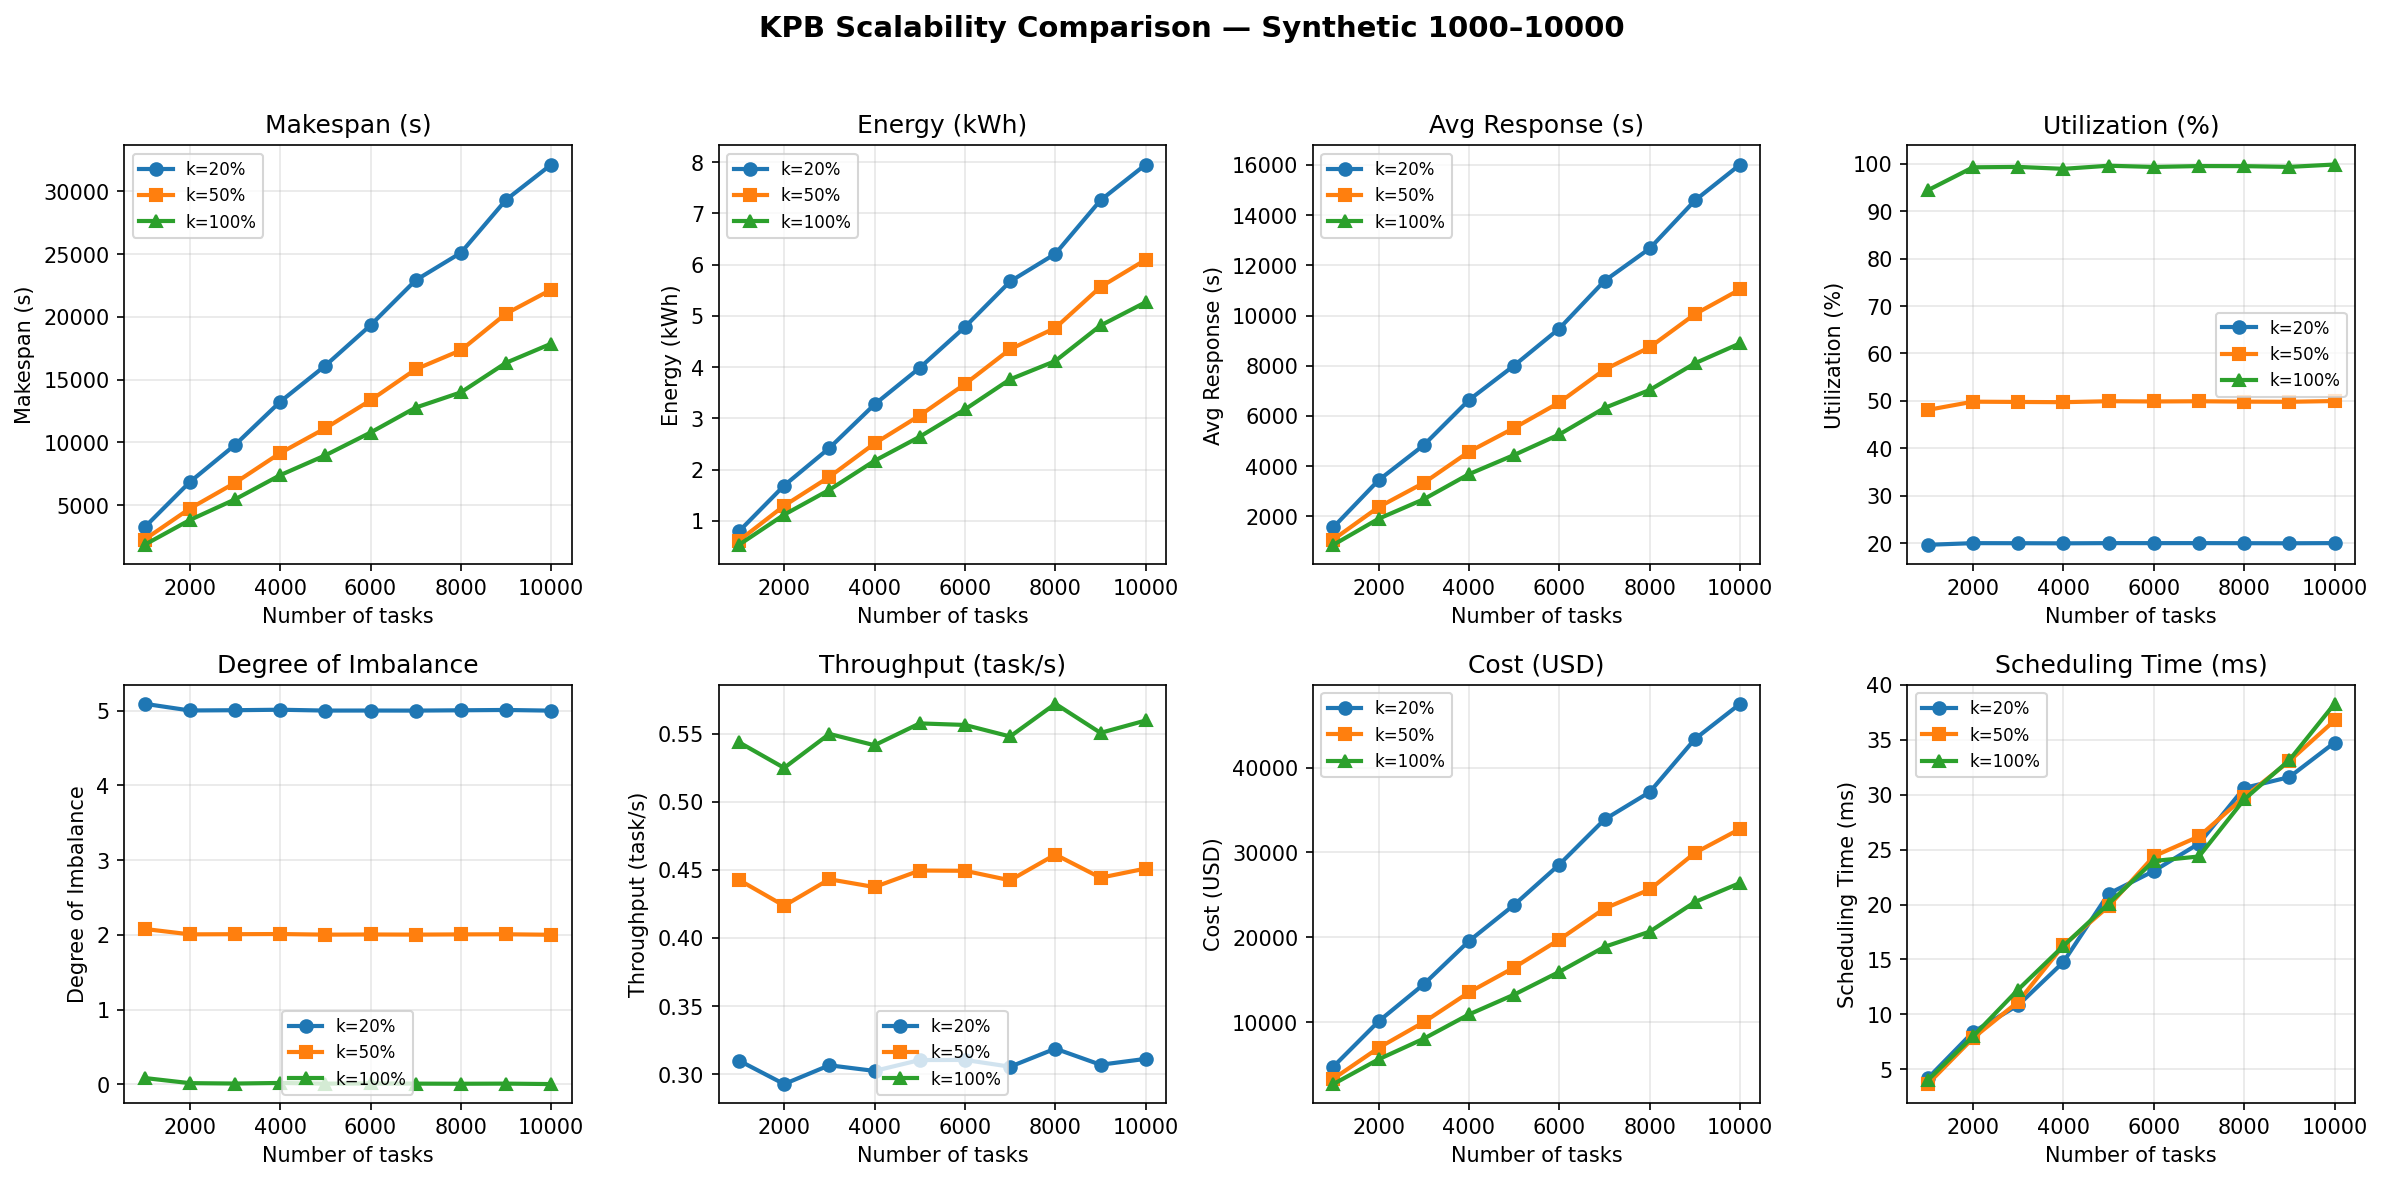
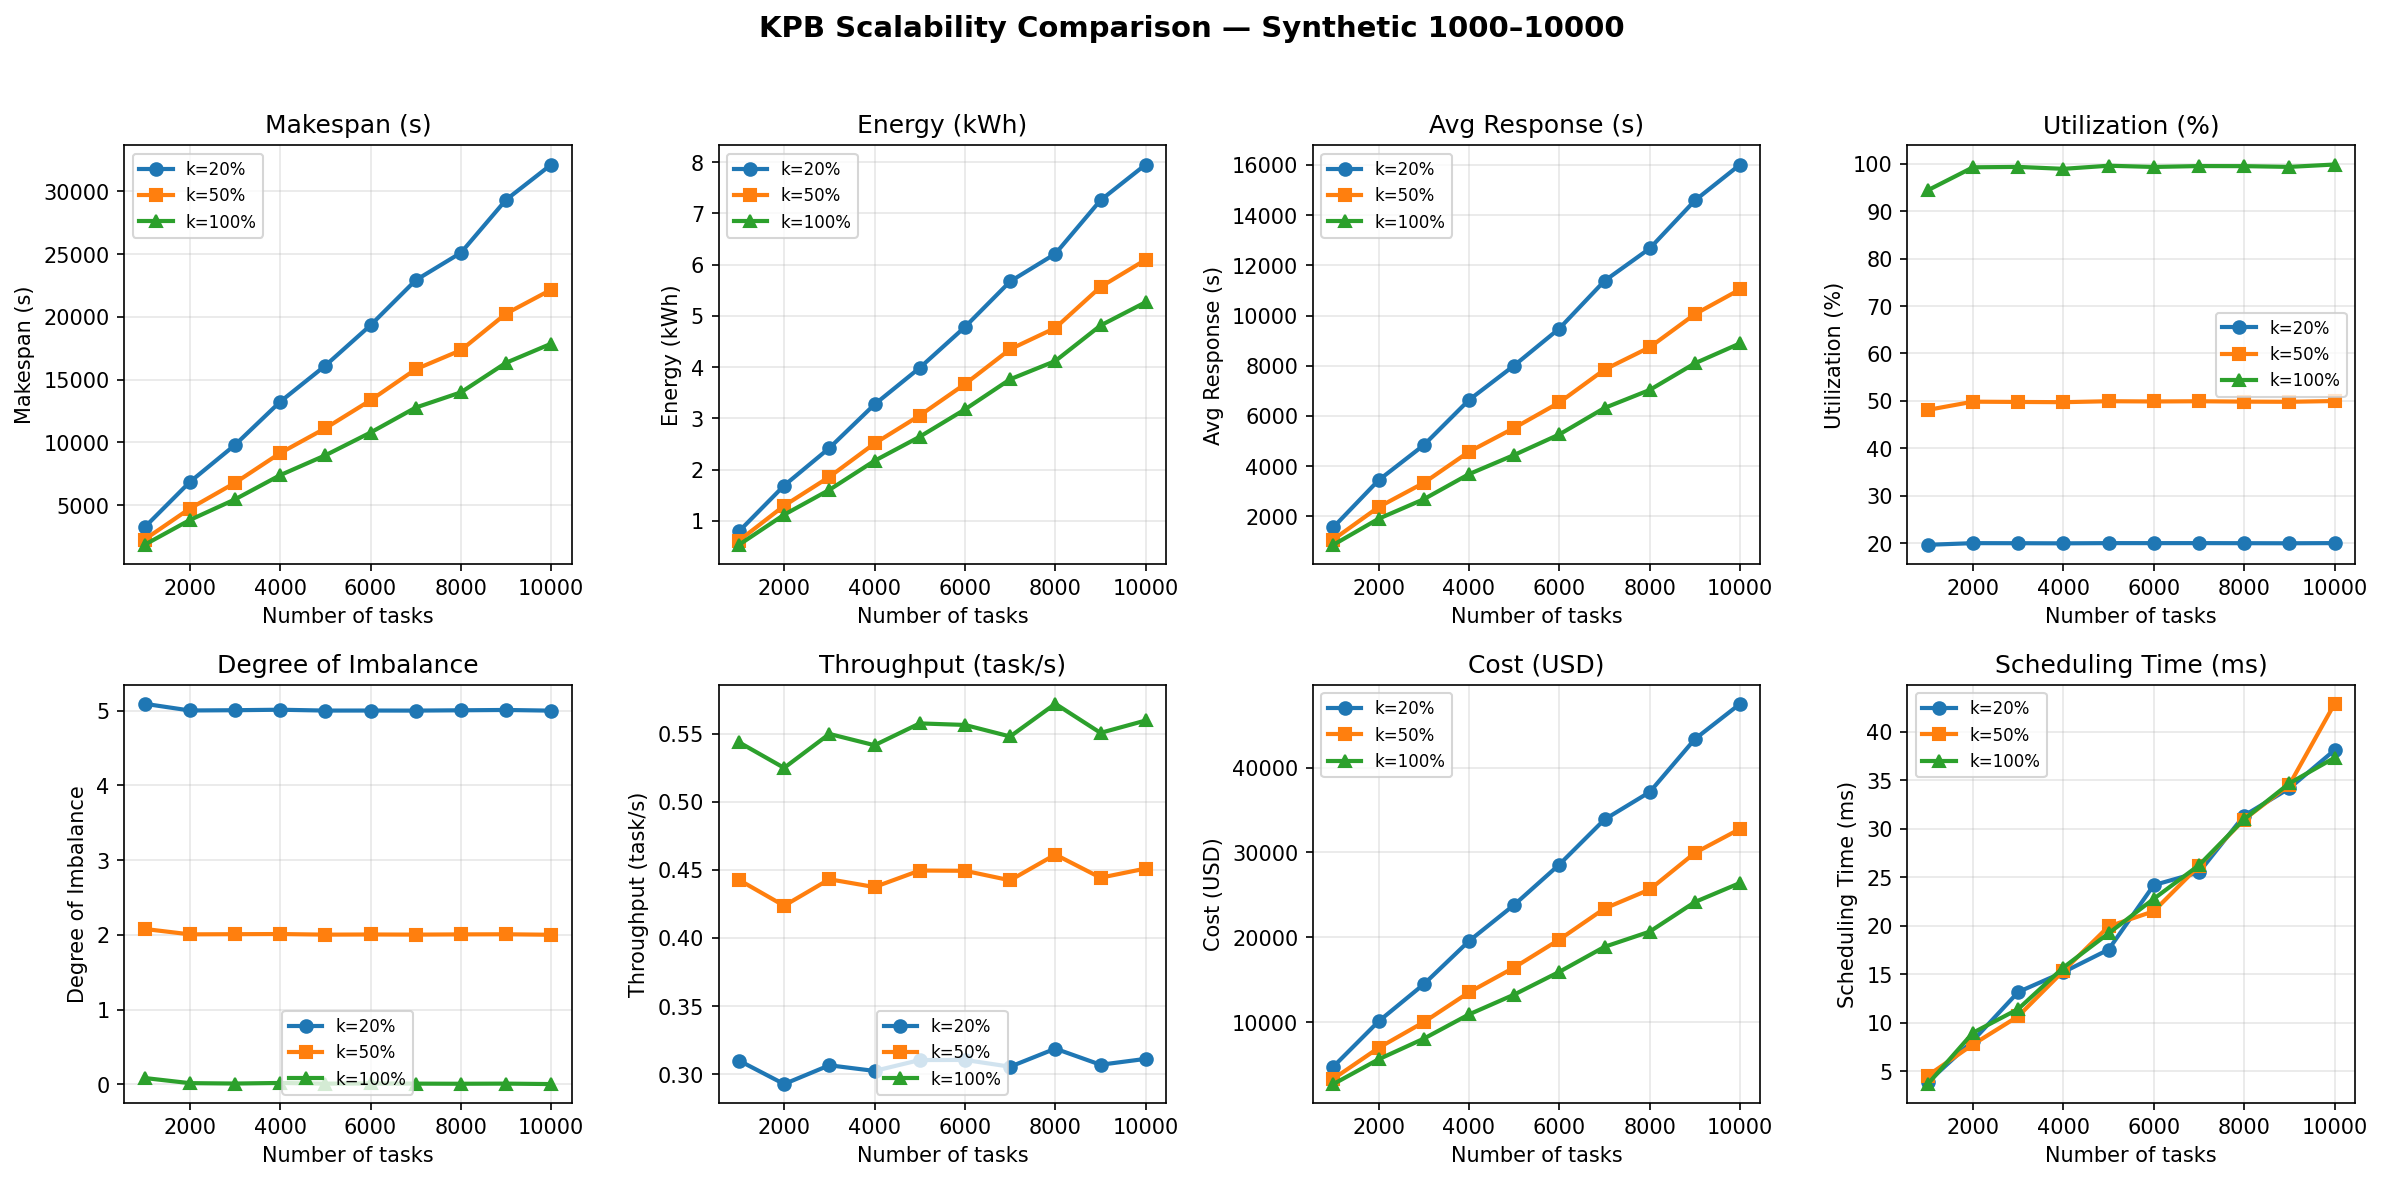
revision

diff --git a/README.md b/README.md
@@ -292,13 +292,33 @@ Setiap run memvalidasi: 20/20 VM dibuat, setiap cloudlet berjalan di VM hasil KP
 | Sumber | Mendeley Data, diturunkan dari jejak beban kerja Google cluster |
 | Format | Teks, satu panjang task (MI) per baris |
 | Rentang | 15.000 – 900.000 MI |
-| File | `GoCJ_Dataset_100.txt`, `GoCJ_Dataset_500.txt`, `GoCJ_Dataset_1000.txt` |
+
+### 5.1 Suite A — GoCJ resmi (100 … 1.000, kelipatan 100)
+
+| File | Jumlah task | Keterangan |
+|:---|:---:|:---|
+| `GoCJ_Dataset_100.txt` | 100 | Resmi Mendeley |
+| `GoCJ_Dataset_200.txt` … `GoCJ_Dataset_900.txt` | 200–900 | Official-method (Monte Carlo + seed paper) |
+| `GoCJ_Dataset_500.txt` | 500 | Resmi Mendeley |
+| `GoCJ_Dataset_1000.txt` | 1.000 | Resmi Mendeley |
 
 | Skenario | Jumlah task | Tujuan |
 |:---:|:---:|:---|
 | S1 | 100 | Verifikasi kebenaran implementasi |
 | S2 | 500 | Beban normal (skenario acuan utama) |
 | S3 | 1.000 | Uji skalabilitas |
+| S4–S10 | 200, 300, 400, 600, 700, 800, 900 | Kelengkapan uji kelipatan 100 |
+
+### 5.2 Suite B — Synthetic (1.000 … 10.000, kelipatan 1.000)
+
+Sesuai masukan dosen: dataset synthetic mulai **1.000** hingga **10.000**.
+
+| File | Jumlah task |
+|:---|:---:|
+| `synthetic/Synthetic_GoCJ_1000.txt` | 1.000 |
+| `synthetic/Synthetic_GoCJ_2000.txt` … `Synthetic_GoCJ_10000.txt` | 2.000 … 10.000 |
+
+Generated dengan resampling distribusi empiris `GoCJ_Dataset_1000` (seed deterministik).
 
 Pemetaan ke cloudlet (Desain bagian 1.3):
 
@@ -370,6 +390,47 @@ Log semua run ada di `results/simulation/log_<dataset>_k<K>.txt`.
 2. **Energi dan biaya juga terendah pada k = 100% di matriks ini.** Keenam host tetap dimodelkan aktif, sehingga penurunan makespan mengurangi energi idle dan biaya yang bergantung pada durasi.
 3. **Anomali satu-PE pada V3 sudah teratasi di CloudSim.** Cloudlet memakai semua PE VM tujuan; V3 menjalankan satu Cloudlet pada 4 PE dengan scheduler `SpaceShared`. Makespan seluruh 9 konfigurasi hanya 0,74–1,62% di atas f1, bukan beberapa kali lipat.
 4. **Waktu penjadwalan tetap kecil.** KPB menjadwalkan hingga 1.000 task dalam kurang dari 4 ms pada pengujian ini.
+
+---
+
+## 6.5. Eksperimen Skalabilitas
+
+Eksperimen tambahan mengikuti masukan dosen: uji ukuran 100…1.000 (kelipatan 100) dan synthetic 1.000…10.000 (kelipatan 1.000), plus diagram perbandingan.
+
+### Runner dan artefak
+
+| Runner | Cakupan | Output utama |
+|:---|:---|:---|
+| **Analitik KPB** (`scripts/run_scalability_experiment.py`) | Semua size × k ∈ {20, 50, 100}% | [`summary_scalability.csv`](results/simulation/summary_scalability.csv) + diagram di [`results/figures/`](results/figures/) |
+| **CloudSim Plus** (`scripts/run_cloudsim_batch.ps1`) | Official 100–1.000 + Synthetic (batch) | `cloudlets_*.csv`, `log_*.txt`, [`summary.csv`](results/simulation/summary.csv) |
+| **Real-world Docker** (`scripts/run_realworld_batch.ps1`) | Official 100–1.000 + Synthetic_1000 | `realworld/results/` |
+
+> **Catatan file hasil:**  
+> - `summary_scalability.csv` = metrik **analitik** (identik `KpbScheduler` + model energi desain) → dipakai untuk **diagram skalabilitas**.  
+> - `summary.csv` = metrik **CloudSim Plus penuh** (bisa berisi run historis model lama di bagian atas; baris terbaru adalah model setelah perbaikan PE).  
+> Selisih CloudSim vs analitik pada konfigurasi yang divalidasi tetap **&lt; 2%** (lihat §6.2).
+
+### Ringkasan tren (analitik)
+
+1. Makespan dan energi **linear** terhadap jumlah task (terlihat pada plot log-log).
+2. **k = 100%** konsisten terbaik untuk makespan, energi, utilisasi, dan biaya pada arsitektur ini.
+3. k = 20% → utilisasi ≈ 20%, makespan ≈ 1,8× lebih tinggi vs k = 100%.
+4. Waktu penjadwalan tetap ringan (puluhan ms untuk 10.000 task).
+
+Diagram:
+
+| File | Isi |
+|:---|:---|
+| `results/figures/compare_100_1000.png` | Official GoCJ 100–1.000 (8 metrik) |
+| `results/figures/compare_1000_10000.png` | Synthetic 1.000–10.000 |
+| `results/figures/bars_*.png` | Bar chart |
+| `results/figures/compare_loglog_all.png` | Makespan & energi log-log |
+
+Analisis lengkap: [`docs/scalability-analysis.md`](docs/scalability-analysis.md).
+
+```powershell
+python scripts/run_scalability_experiment.py
+```
 
 ---
 
@@ -890,19 +951,27 @@ soka-a-5/
 │   │       ├── SimulationSetup.java       ← Broker, cloudlet, binding, validasi
 │   │       └── CloudSimAdapter.java
 │   └── resources/dataset/
-│       ├── GoCJ_Dataset_100.txt
-│       ├── GoCJ_Dataset_500.txt
-│       ├── GoCJ_Dataset_1000.txt
+│       ├── GoCJ_Dataset_100.txt … 1000.txt ← Suite resmi (kelipatan 100)
+│       ├── Original_DataSet.txt           ← Seed Monte Carlo paper GoCJ
+│       ├── synthetic/                     ← Synthetic_GoCJ_1000 … 10000
 │       └── dataset.txt                    ← 5 task contoh
 │
+├── scripts/
+│   ├── run_scalability_experiment.py      ← Analitik + diagram skalabilitas
+│   ├── run_cloudsim_batch.ps1 / .sh       ← Batch CloudSim semua size
+│   └── run_realworld_batch.ps1            ← Batch Docker real-world
+│
 ├── docs/
-│   └── gap-analysis.md                    ← Draft desain vs implementasi
+│   ├── gap-analysis.md                    ← Draft desain vs implementasi
+│   └── scalability-analysis.md            ← Analisis skalabilitas
 │
 ├── results/simulation/
-│   ├── summary.csv                        ← 8 metrik per run
+│   ├── summary_scalability.csv            ← Metrik analitik (untuk diagram)
+│   ├── summary.csv                        ← Metrik CloudSim penuh
 │   ├── placement.csv                      ← VM → DC/host
 │   ├── cloudlets_<dataset>_k<K>.csv       ← Detail per cloudlet
 │   └── log_<dataset>_k<K>.txt             ← Output terminal
+├── results/figures/                       ← Diagram perbandingan skalabilitas
 │
 └── realworld/
     ├── docker-compose.yml                 ← 20 container "VM", 2 jaringan DC
@@ -928,6 +997,10 @@ soka-a-5/
 | 4. Ujicoba dataset minggu 3 (S1–S3) | ✅ 9 kombinasi, 8 metrik (bagian 6) |
 | 5. Implementasi KPB di real world | ✅ 20 container mengikuti spesifikasi VM, PE, dan penempatan desain (bagian 7) |
 | 6. Ujicoba real world | ✅ 9 kombinasi × 3 repetisi, mean ± std (bagian 7.4) |
+| 7. Dataset GoCJ 100…1.000 (kelipatan 100) | ✅ Suite resmi / official-method (bagian 5.1) |
+| 8. Dataset synthetic 1.000…10.000 | ✅ Termasuk `Synthetic_GoCJ_1000.txt` (bagian 5.2) |
+| 9. Eksperimen skalabilitas + diagram | ✅ Analitik semua size; CloudSim official 100–1.000 + Synthetic_1000 (bagian 6.5) |
+| 10. Batch CloudSim / real-world size besar | ⚪ Script tersedia (`scripts/run_cloudsim_batch.ps1`, `run_realworld_batch.ps1`); synthetic ≥2.000 opsional (lama) |
 
 Penyimpangan dari Draft Desain dan alasannya (analisis lengkap, termasuk bagian desain yang kurang tepat untuk diterapkan, ada di [`docs/gap-analysis.md`](docs/gap-analysis.md)):
 

diff --git a/docs/scalability-analysis.md b/docs/scalability-analysis.md
@@ -1,74 +1,59 @@
 # Analisis Skalabilitas Algoritma KPB
 
-Sesuai masukan dosen:
-1. Uji coba dataset **100, 200, 300, …, 1000**
-2. Dataset synthetic **1000, 2000, …, 10.000**
-3. Diagram perbandingan makespan, energi, dan metrik lain
+Sesuai masukan dosen + perbaikan dataset:
 
-## Metode
+## 1. Dataset
 
-- **Dataset asli GoCJ**: 100, 500, 1000 (dari `src/main/resources/dataset/`).
-- **Dataset synthetic**: resampling distribusi empiris `GoCJ_Dataset_1000` (seed deterministik) → file di `src/main/resources/dataset/synthetic/`.
-- **Scheduler**: implementasi analitik KPB identik dengan `KpbScheduler.java` (subset k% VM terbaik → min completion time).
-- **Metrik**: makespan, energi (6 host selalu menyala sampai Cmax), avg response, utilisasi, DI, throughput, biaya, waktu penjadwalan.
-- Validasi: makespan n=100/500/1000 **tepat sama** dengan nilai analitik di README §6.2 (362.45 / 270.95 / 230.90 untuk n=100).
+### Suite A — GoCJ resmi / official-method (100 … 1000, kelipatan 100)
+| File | Keterangan |
+|------|------------|
+| `GoCJ_Dataset_100.txt` … `GoCJ_Dataset_1000.txt` | 100, 200, 300, 400, 500, 600, 700, 800, 900, 1000 |
 
-Hasil lengkap: `results/simulation/summary_scalability.csv`  
-Diagram: `results/figures/`
+Sumber: file resmi Mendeley (100/500/1000) + generate metode paper (Monte Carlo + seed `Original_DataSet`) untuk ukuran yang hilang.
 
-## Ringkasan Hasil — Skala 100–1000
+### Suite B — Synthetic (1000 … 10.000, kelipatan 1000) — **termasuk 1000**
+| File | Keterangan |
+|------|------------|
+| `synthetic/Synthetic_GoCJ_1000.txt` … `Synthetic_GoCJ_10000.txt` | Resample distribusi empiris GoCJ_1000 |
 
-| Tasks | k=20% Makespan (s) | k=50% | k=100% | k=20% Energy (kWh) | k=100% Energy |
-|------:|-------------------:|------:|-------:|-------------------:|--------------:|
-| 100   | 362.45             | 270.95 | 230.90 | 0.0887             | 0.0638        |
-| 200   | 754.60             | 538.55 | 450.15 | 0.1843             | 0.1266        |
-| 300   | 1035.05            | 722.70 | 592.65 | 0.2561             | 0.1729        |
-| 400   | 1323.75            | 919.90 | 782.55 | 0.3273             | 0.2259        |
-| 500   | 1630.75            | 1134.70| 925.40 | 0.4034             | 0.2707        |
-| 600   | 1942.55            | 1357.65| 1111.70| 0.4802             | 0.3240        |
-| 700   | 2342.35            | 1637.55| 1337.95| 0.5790             | 0.3900        |
-| 800   | 2637.20            | 1836.15| 1497.10| 0.6522             | 0.4363        |
-| 900   | 2983.15            | 2076.00| 1693.00| 0.7379             | 0.4935        |
-| 1000  | 3278.25            | 2288.00| 1866.35| 0.8109             | 0.5441        |
+## 2. Metrik & runner
 
-## Ringkasan Hasil — Synthetic 1000–10.000
+| Runner | Cakupan | Output |
+|--------|---------|--------|
+| **Analytic KPB** (`scripts/run_scalability_experiment.py`) | Semua size × k=20/50/100 | `results/simulation/summary_scalability.csv` + 5 PNG |
+| **CloudSim Plus** (`scripts/run_cloudsim_batch.ps1` / `.sh`) | Official 100–1000 + Synthetic (batch) | `results/simulation/cloudlets_*.csv`, `log_*.txt`, `summary.csv` |
+| **Real-world Docker** (`scripts/run_realworld_batch.ps1`) | Official 100–1000 + Synthetic_1000 | `realworld/results/` |
 
-| Tasks | k=20% Makespan (s) | k=50% | k=100% | k=20% Energy (kWh) | k=100% Energy |
-|------:|-------------------:|------:|-------:|-------------------:|--------------:|
-| 1000  | 3278.25            | 2288.00 | 1866.35 | 0.8109          | 0.5441        |
-| 2000  | 6719.95            | 4649.50 | 3755.00 | 1.6630          | 1.0993        |
-| 3000  | 9797.15            | 6769.70 | 5455.15 | 2.4235          | 1.6069        |
-| 4000  | 13230.40           | 9144.40 | 7385.20 | 3.2731          | 2.1735        |
-| 5000  | 16112.45           | 11121.45| 8965.90 | 3.9877          | 2.6431        |
-| 6000  | 19328.90           | 13352.05| 10781.05| 4.7836          | 3.1759        |
-| 7000  | 22918.40           | 15823.35| 12772.50| 5.6721          | 3.7638        |
-| 8000  | 25101.80           | 17342.50| 13983.70| 6.2116          | 4.1203        |
-| 9000  | 29328.30           | 20256.95| 16342.55| 7.2565          | 4.8135        |
-| 10000 | 32134.50           | 22171.15| 17863.45| 7.9532          | 5.2684        |
+CloudSim sudah dijalankan untuk **official 200–900** dan **Synthetic_1000** (selisih vs analitik ~1–2%, konsisten README §6.2).
 
-## Temuan Utama
+## 3. Cara menjalankan ulang
 
-1. **Makespan & energi linear terhadap jumlah task** (terlihat jelas di plot log-log). KPB O(n · m log m) tetap praktis: scheduling time ~47 ms untuk 10.000 task.
-2. **k=100% (MCT murni) selalu terbaik** untuk makespan, energi, utilisasi, dan biaya pada arsitektur ini (20 VM heterogen, host tetap menyala).
-3. **k=20%** mengonsolidasikan ke ~4 VM tercepat → utilisasi ~20%, DI tinggi (~5), makespan ~1.8× lebih buruk vs k=100%.
-4. **Trade-off k**: menaikkan k dari 20% → 50% → 100% secara konsisten menurunkan makespan & energi; tidak ada “sweet spot” energi lebih rendah di k kecil karena host idle tetap berkontribusi daya (sesuai analisis README §2).
-5. Utilisasi k=100% mendekati 100% pada dataset besar → load balancing sangat baik (DI → 0).
+```powershell
+# Analytic + diagram (cepat)
+python scripts/run_scalability_experiment.py
 
-## Diagram
+# CloudSim penuh (butuh JDK + folder lib/)
+powershell -ExecutionPolicy Bypass -File scripts\run_cloudsim_batch.ps1
+
+# Real-world (butuh Docker compose up)
+cd realworld
+docker compose up -d --build
+powershell -ExecutionPolicy Bypass -File ..\scripts\run_realworld_batch.ps1
+```
+
+## 4. Temuan utama
+
+1. Makespan & energi **linear** terhadap jumlah task (plot log-log).
+2. **k=100%** terbaik untuk makespan, energi, utilisasi, biaya.
+3. k=20% → utilisasi ~20%, makespan ~1.8× lebih buruk.
+4. CloudSim ≈ analitik (selisih < 2%).
+5. Scheduling time tetap ringan (~45–70 ms untuk 10.000 task, analytic).
+
+## 5. Diagram
 
 | File | Isi |
 |------|-----|
-| `results/figures/compare_100_1000.png` | 8 metrik, skala 100–1000 |
-| `results/figures/compare_1000_10000.png` | 8 metrik, skala 1000–10.000 |
-| `results/figures/bars_100_1000.png` | Bar chart makespan/energi/throughput/util |
-| `results/figures/bars_1000_10000.png` | Bar chart skala besar |
-| `results/figures/compare_loglog_all.png` | Makespan & energi log-log seluruh skala |
-
-## Cara Menjalankan Ulang
-
-```bash
-cd soka-a-5
-python3 scripts/run_scalability_experiment.py
-```
-
-Script akan (re)generate synthetic dataset jika belum ada, menjalankan semua kombinasi (size × k), menulis CSV, dan menghasilkan PNG.
+| `results/figures/compare_100_1000.png` | Official GoCJ 100–1000 |
+| `results/figures/compare_1000_10000.png` | Synthetic 1000–10.000 |
+| `results/figures/bars_*.png` | Bar chart |
+| `results/figures/compare_loglog_all.png` | Log-log makespan & energi |
